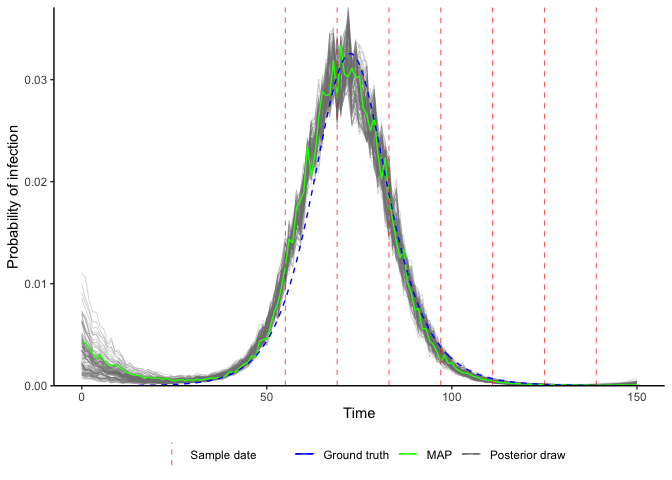
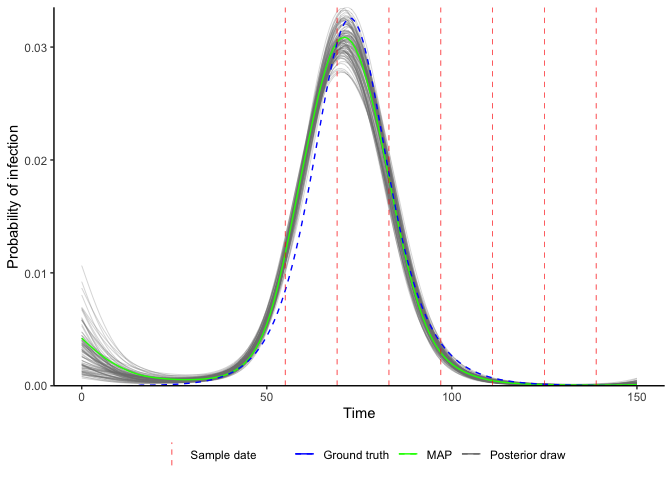
Moved README to actual vignette

diff --git a/README.md b/README.md
@@ -734,7 +734,8 @@ predictions <- plot_prob_infection(chain_comb,
                                    INCIDENCE_FUNC=incidence_function,
                                   solve_times=0:max(example_ct_data$t),
                                    obs_dat=example_ct_data,
-                                  true_prob_infection=example_seir_incidence)
+                                  true_prob_infection=example_seir_incidence,
+                                  smooth=TRUE) ## Smooth the trajectories a bit
 p_incidence_prediction <- predictions$plot + scale_x_continuous(limits=c(0,150))
 p_incidence_prediction
 ## Warning: Removed 300 row(s) containing missing values (geom_path).
